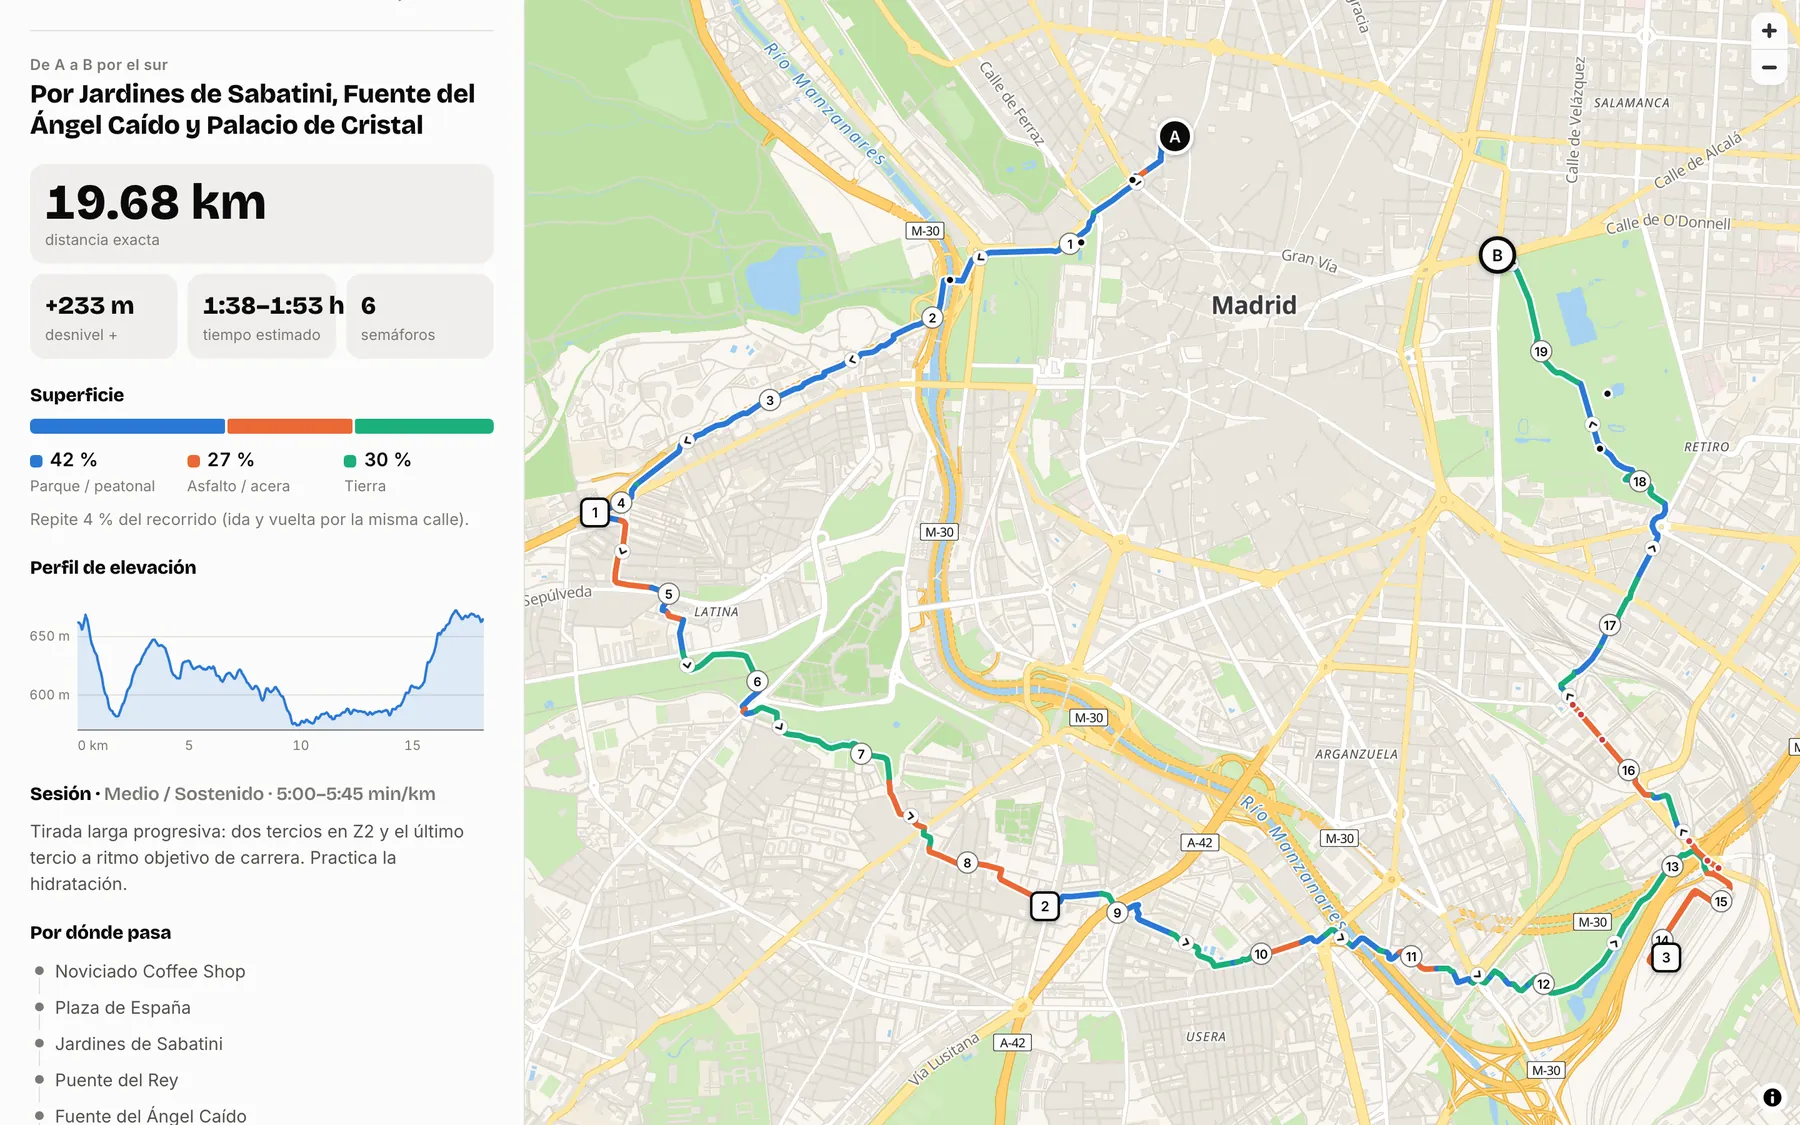
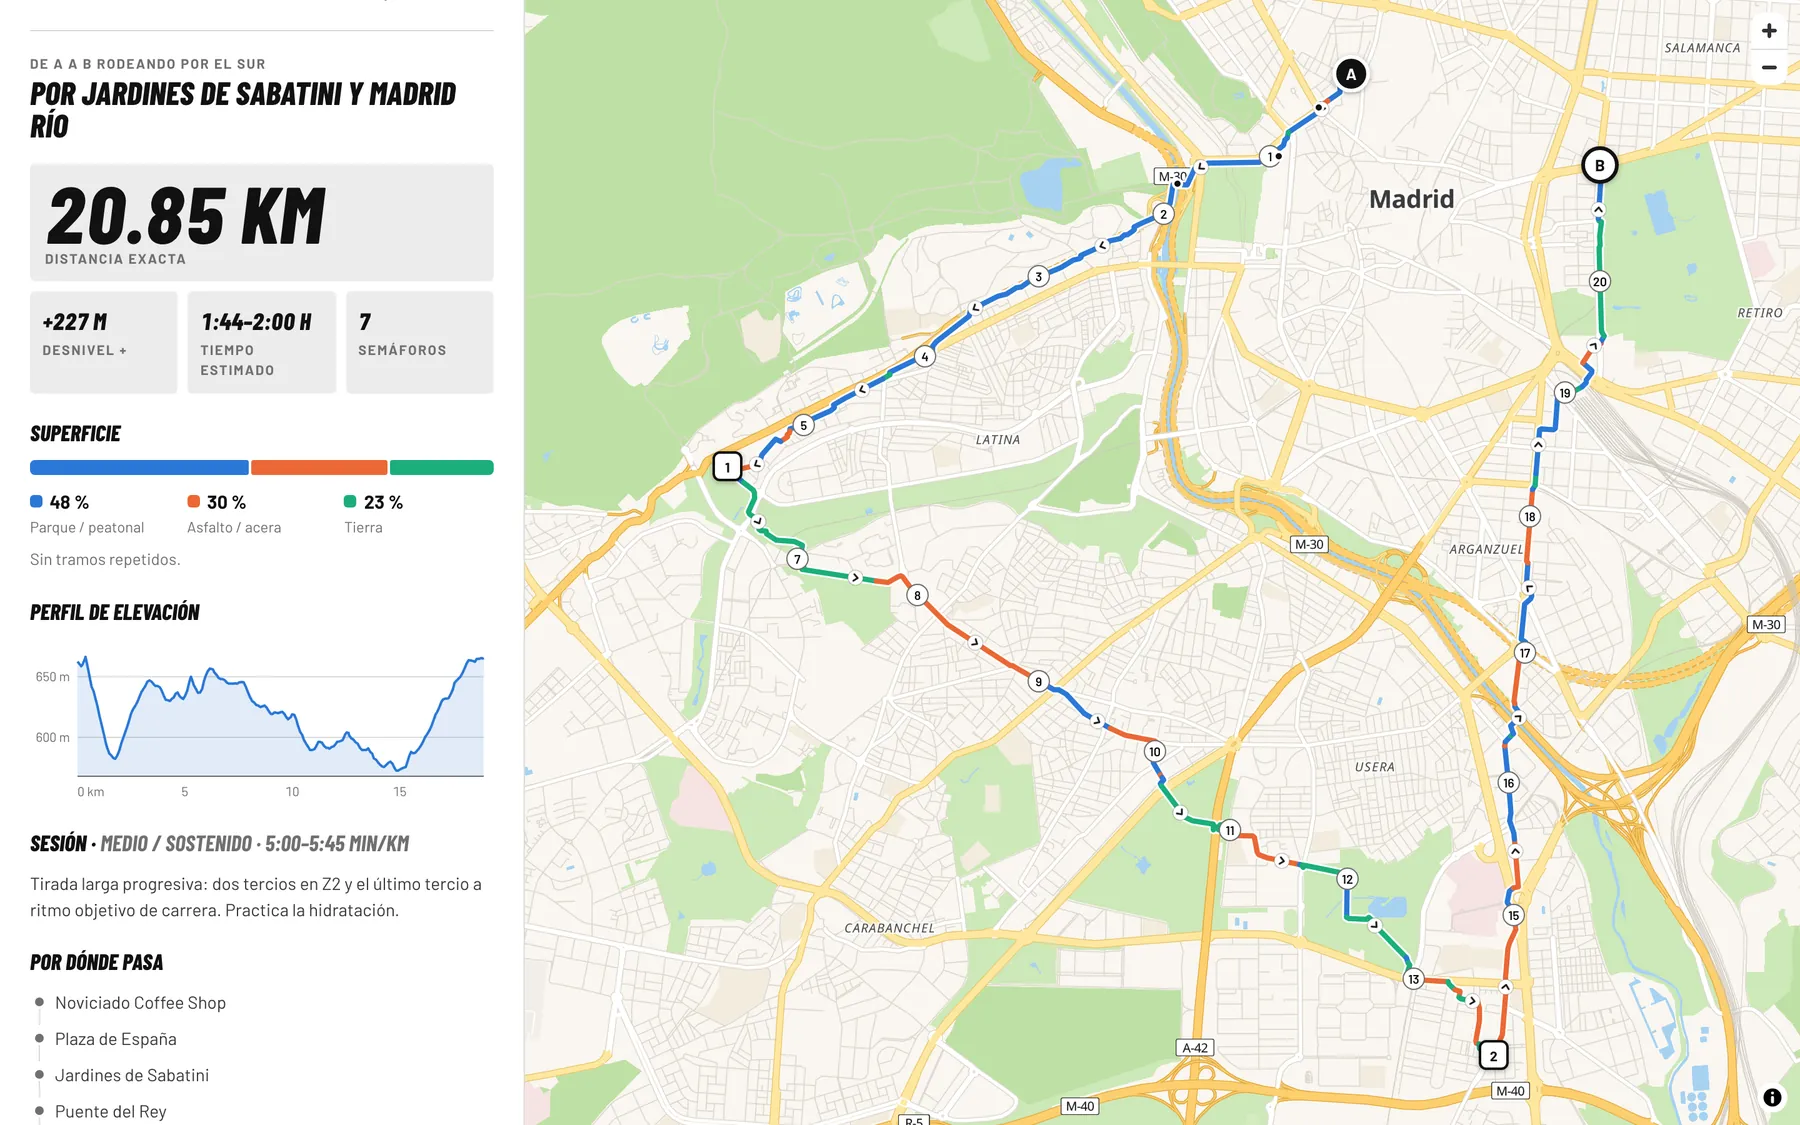
Capturas nuevas de Rutas A→B con el estilo deportivo

diff --git a/index.html b/index.html
@@ -74,7 +74,7 @@
       <div class="featured-media">
         <a href="https://danielcs94.github.io/rutas-ab/" target="_blank" rel="noopener" class="shot shot-desktop" data-goatcounter-click="portfolio-captura-rutas-ab" data-goatcounter-title="Captura de Rutas A→B">
           <img src="assets/rutas-ab-escritorio.webp" width="1800" height="1125" loading="lazy"
-               alt="Rutas A→B en escritorio: ruta de 19,68 km de Noviciado a la Puerta de Alcalá por Madrid Río y el Retiro, con desnivel, superficie y perfil de elevación">
+               alt="Rutas A→B en escritorio: ruta de 20,85 km de Noviciado a la Puerta de Alcalá por Sabatini, Madrid Río y el Retiro, con desnivel, superficie y perfil de elevación">
         </a>
         <a href="https://danielcs94.github.io/rutas-ab/" target="_blank" rel="noopener" class="shot shot-phone" data-goatcounter-click="portfolio-captura-rutas-ab" data-goatcounter-title="Captura de Rutas A→B">
           <img src="assets/rutas-ab-movil.webp" width="780" height="1688" loading="lazy"
